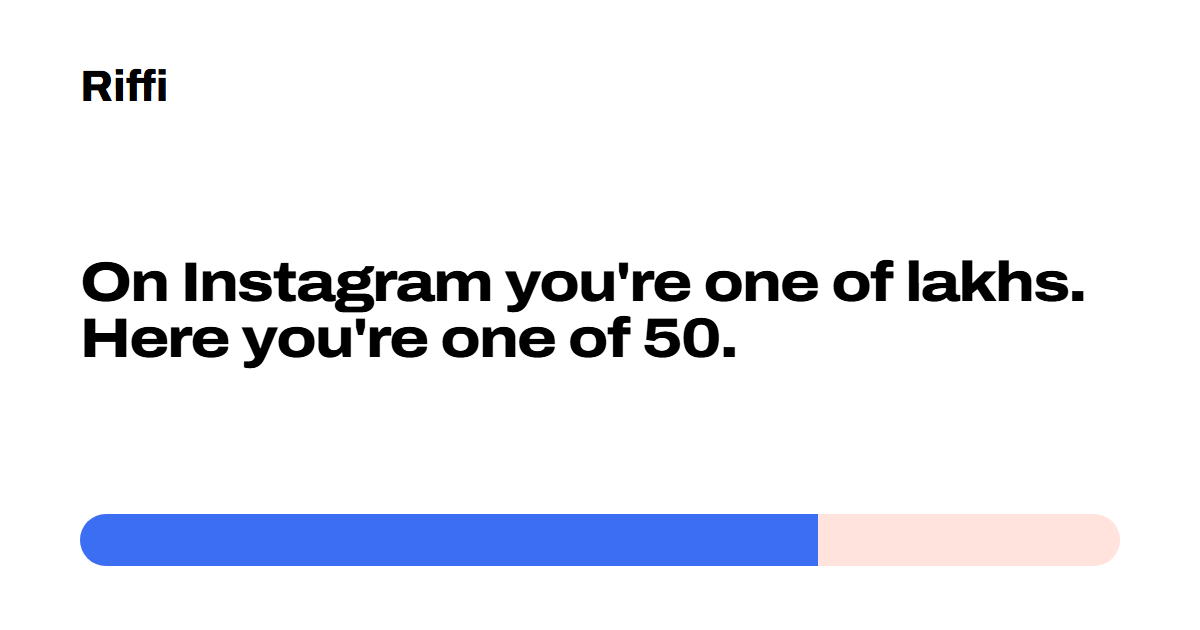
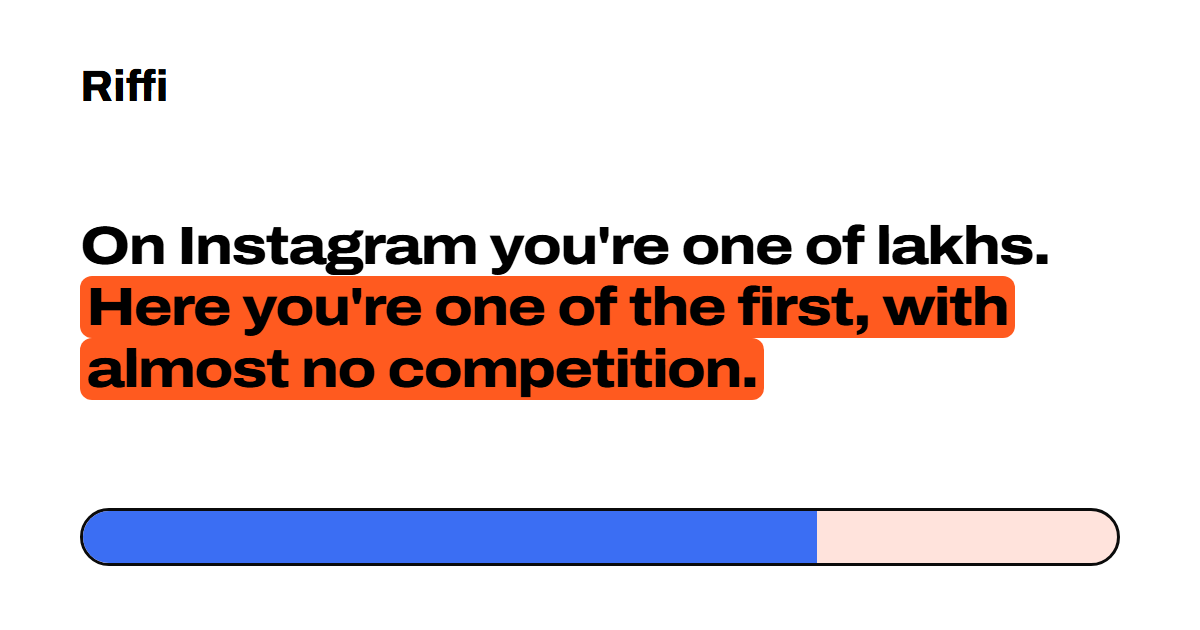
feat: the sticker look - white page, colour in the pieces
Founder's direction on 16 Sep 2026, after seeing a rendered mock: keep the page white and put the colour into the elements. Sections carry drawn panels (lime, or ink for the close), every card and chip has a 3px edge and a hard offset shadow, the button's shadow is the signal blue, the poll bars are outlined, and a faint CSS grid sits behind the page. New brand values live in tokens.css; nothing but a token is referenced elsewhere.

Copy: the hero's second line is now "Here you're one of the first, with almost no competition." (founder's words), carried through the head tag and the DM preview card, where it gets the orange marker sweep.

The headline's stand-in font was re-tuned for the new, longer sentence (size-adjust 126% -> 129%): measured over 3 cold 4G loads per width, the layout jump is 0 at 320, 360, 375 and 390, against a 0.02 budget.

scripts/make-images.mjs now drives Edge over the DevTools protocol: this Edge build ignores --screenshot in headless mode, writing nothing or a picture of its own error page. It also waits for the fonts before capturing.

Tests updated by the independent test author for the new copy and the new card rule; 238 pass.

Changed region(s): [[0.0617, 0.3317, 0.925, 0.6333], [0.0617, 0.7841, 0.925, 0.9048], [0.925, 0.8444, 0.9558, 0.8746]]

diff --git a/src/styles/global.css b/src/styles/global.css
@@ -23,6 +23,10 @@
   --color-hairline: var(--hairline);
   --color-on-ink-body: var(--on-ink-body);
   --color-on-ink-meta: var(--on-ink-meta);
+  --color-lime: var(--lime);
+  --color-flare: var(--flare);
+  --color-edge: var(--edge);
+  --color-grid-line: var(--grid-line);
 
   --default-font-family: var(--typeface-body);
   --font-display: var(--typeface-display);
@@ -30,7 +34,11 @@
 
   --radius-take: var(--corner-take);
   --radius-pill: var(--corner-pill);
+  --radius-panel: var(--corner-panel);
   --shadow-take: var(--lift-take);
+  --shadow-sticker: var(--lift-sticker);
+  --shadow-sticker-sm: var(--lift-sticker-sm);
+  --shadow-cta: var(--lift-cta);
 }
 
 /* Type scale from 360px to 1280px through clamp(), so in-between widths look intentional (PRD 3.3). */
@@ -61,6 +69,11 @@
   body {
     min-height: 100dvh;
     background-color: var(--paper);
+    /* A faint drawing-board grid: two 1px lines, no image file, so it costs the page nothing. */
+    background-image:
+      linear-gradient(var(--grid-line) 1px, transparent 1px),
+      linear-gradient(90deg, var(--grid-line) 1px, transparent 1px);
+    background-size: 44px 44px;
     color: var(--ink);
     font-family: var(--typeface-body);
     font-size: var(--text-body);
@@ -83,8 +96,36 @@
     contain-intrinsic-size: auto 900px;
   }
 
+  /*
+   * The sticker layer (founder's direction, 16 Sep 2026): a drawn edge and a hard offset shadow.
+   * `panel` is a whole section's coloured block, `sticker` a small object (chips), `cta-sticker` the
+   * button, whose shadow is the signal blue rather than ink.
+   */
+  .panel {
+    border: var(--edge-width) solid var(--edge);
+    border-radius: var(--corner-panel);
+    box-shadow: var(--lift-sticker);
+  }
+
+  /* Dividers inside a coloured panel need a darker line than the one that works on white. */
+  .panel:not(.bg-ink) {
+    --hairline: var(--hairline-on-panel);
+  }
+
+  .sticker {
+    border: var(--edge-width) solid var(--edge);
+    box-shadow: var(--lift-sticker-sm);
+  }
+
+  .cta-sticker {
+    border: var(--edge-width) solid var(--edge);
+    box-shadow: var(--lift-cta);
+  }
+
   /* Hover lift belongs only to take cards, and only on pointer devices (PRD 3.5). */
   .take-card {
+    border: var(--edge-width) solid var(--edge);
+    box-shadow: var(--lift-sticker);
     transition: transform 200ms ease-out;
   }
 
@@ -110,6 +151,7 @@
     display: flex;
     height: 44px;
     overflow: hidden;
+    border: var(--edge-width) solid var(--edge);
     border-radius: var(--corner-pill);
     background-color: var(--chip-coral-bg);
   }
@@ -230,6 +272,15 @@
 
   .hero-line {
     animation: hero-rise 520ms cubic-bezier(0.22, 1, 0.36, 1) both;
+  }
+
+  /* The marker sweep behind the second headline line: it hugs the words on every wrapped line. */
+  .hero-mark {
+    box-decoration-break: clone;
+    -webkit-box-decoration-break: clone;
+    padding: 0.04em 0.12em;
+    border-radius: 12px;
+    background-color: var(--flare);
   }
 
   .hero-line + .hero-line {

diff --git a/src/styles/tokens.css b/src/styles/tokens.css
@@ -53,9 +53,9 @@
 @font-face {
   font-family: 'Archivo Fallback Wide';
   src: local('Arial'), local('Roboto');
-  size-adjust: 126%;
-  ascent-override: 69.69%;
-  descent-override: 16.67%;
+  size-adjust: 129%;
+  ascent-override: 68.07%;
+  descent-override: 16.28%;
   line-gap-override: 0%;
 }
 
@@ -91,6 +91,17 @@
   --on-ink-body: #b3b3b3;
   --on-ink-meta: #999999;
 
+  /*
+   * The sticker layer (founder's direction, 16 Sep 2026): the page itself stays white and the colour
+   * lives in the pieces - drawn edges, hard offset shadows, bright panels and chips.
+   */
+  --lime: #d6f84c;
+  --flare: #ff5a1f;
+  --edge: #0b0b0b;
+  --grid-line: #ededed;
+  /* The page's hairline disappears on a coloured panel, so panels use ink at 15% instead. */
+  --hairline-on-panel: #0b0b0b26;
+
   /* Typefaces (PRD 3.3) */
   --typeface-display: 'Archivo Variable', 'Archivo Fallback', sans-serif;
   /* The headline only: same face, with the stand-in matched to its 115% width. */
@@ -100,6 +111,13 @@
   /* Radii differ by object type on purpose (PRD 3.4) */
   --corner-take: 20px;
   --corner-pill: 999px;
+  --corner-panel: 32px;
+
+  /* The drawn edge and the hard shadows that sit under everything on the sticker layer. */
+  --edge-width: 3px;
+  --lift-sticker: 6px 6px 0 var(--edge);
+  --lift-sticker-sm: 4px 4px 0 var(--edge);
+  --lift-cta: 6px 6px 0 var(--signal);
 
   /* The one shadow token, used only on the hero take card (PRD 3.2) */
   --lift-take: 0 24px 48px -20px rgb(0 0 0 / 0.28);

diff --git a/src/components/primitives/Section.tsx b/src/components/primitives/Section.tsx
@@ -1,9 +1,13 @@
 import type { ReactNode } from 'react';
 
+/**
+ * The page stays white; a section's colour arrives as a drawn panel inside it (founder's direction,
+ * 16 Sep 2026). `paper` sections have no panel, so the white page itself carries them.
+ */
 const TONES = {
-  paper: 'bg-paper text-ink',
-  recess: 'bg-recess text-ink',
-  ink: 'bg-ink text-paper',
+  paper: { section: 'text-ink', panel: '' },
+  recess: { section: 'text-ink', panel: 'panel bg-lime p-6 md:p-10 lg:p-12' },
+  ink: { section: 'text-paper', panel: 'panel bg-ink p-6 md:p-10 lg:p-12' },
 } as const;
 
 type SectionProps = {
@@ -20,9 +24,11 @@ export function Section({ id, tone, belowFold = false, children }: SectionProps)
     <section
       id={id}
       aria-labelledby={`${id}-heading`}
-      className={`${TONES[tone]} ${belowFold ? 'below-fold' : ''} py-[72px] lg:py-[112px] xl:py-[128px]`}
+      className={`${TONES[tone].section} ${belowFold ? 'below-fold' : ''} py-[56px] lg:py-[88px] xl:py-[104px]`}
     >
-      <div className="mx-auto w-full max-w-[1120px] px-5 md:px-8 lg:px-10">{children}</div>
+      <div className="mx-auto w-full max-w-[1120px] px-5 md:px-8 lg:px-10">
+        <div className={TONES[tone].panel}>{children}</div>
+      </div>
     </section>
   );
 }

diff --git a/tests/primitives.test.tsx b/tests/primitives.test.tsx
@@ -58,11 +58,16 @@ describe('TakeCard', () => {
     expect(within(card).getByText('Being early beats being good.')).toBeInTheDocument();
   });
 
-  it('uses the one shadow only when featured', () => {
+  it('draws its edge and shadow from take-card on every card, and marks only the featured one with the desktop tilt', () => {
     const { rerender } = render(<TakeCard chip="sample take" text="A take." />);
-    expect(screen.getByRole('article').className).not.toContain('shadow-take');
+    const plainClasses = screen.getByRole('article').className;
+    expect(plainClasses).toContain('take-card');
+    expect(plainClasses).not.toContain('lg:-rotate-2');
+
     rerender(<TakeCard chip="sample take" text="A take." featured />);
-    expect(screen.getByRole('article').className).toContain('shadow-take');
+    const featuredClasses = screen.getByRole('article').className;
+    expect(featuredClasses).toContain('take-card');
+    expect(featuredClasses).toContain('lg:-rotate-2');
   });
 });
 

diff --git a/tests/head.test.ts b/tests/head.test.ts
@@ -44,7 +44,10 @@ describe('index.html: title, description and the link-preview card, exactly as P
 
   it.each([
     ['meta[name="description"]', "Riffi is India's platform for opinions. We're taking 50 creators in before launch."],
-    ['meta[property="og:title"]', "On Instagram you're one of lakhs. Here you're one of 50."],
+    [
+      'meta[property="og:title"]',
+      "On Instagram you're one of lakhs. Here you're one of the first, with almost no competition.",
+    ],
     ['meta[property="og:description"]', 'The Riffi Creator Program. 50 seats, batch one.'],
     ['meta[property="og:type"]', 'website'],
     ['meta[property="og:image"]', '__SITE_URL__/og.png'],

diff --git a/index.html b/index.html
@@ -8,7 +8,10 @@
       name="description"
       content="Riffi is India's platform for opinions. We're taking 50 creators in before launch."
     />
-    <meta property="og:title" content="On Instagram you're one of lakhs. Here you're one of 50." />
+    <meta
+      property="og:title"
+      content="On Instagram you're one of lakhs. Here you're one of the first, with almost no competition."
+    />
     <meta property="og:description" content="The Riffi Creator Program. 50 seats, batch one." />
     <meta property="og:image" content="__SITE_URL__/og.png" />
     <meta property="og:type" content="website" />

diff --git a/src/components/primitives/TakeCard.tsx b/src/components/primitives/TakeCard.tsx
@@ -13,9 +13,9 @@ type TakeCardProps = {
 export function TakeCard({ chip, text, featured = false, children }: TakeCardProps) {
   return (
     <article
-      className={`take-card rounded-take border border-hairline bg-paper p-5 md:p-6 ${featured ? 'shadow-take lg:-rotate-2' : ''}`}
+      className={`take-card rounded-take bg-paper p-5 md:p-6 ${featured ? 'lg:-rotate-2' : ''}`}
     >
-      <Chip tone="neutral">{chip}</Chip>
+      <Chip tone="butter">{chip}</Chip>
       <p className="mt-4 font-display text-display-m font-bold text-ink">{text}</p>
       {children}
     </article>

diff --git a/tests/content.test.ts b/tests/content.test.ts
@@ -145,7 +145,10 @@ describe('copy matches the PRD word for word', () => {
   });
 
   it('hero: the two title lines and the subline', () => {
-    expect(content.hero.titleLines).toEqual(["On Instagram you're one of lakhs.", "Here you're one of 50."]);
+    expect(content.hero.titleLines).toEqual([
+      "On Instagram you're one of lakhs.",
+      "Here you're one of the first, with almost no competition.",
+    ]);
     expect(content.hero.subline).toBe(
       "Riffi is India's platform for opinions. We're taking 50 creators in before launch and pointing the feed at them.",
     );

diff --git a/src/components/blocks/Hero.tsx b/src/components/blocks/Hero.tsx
@@ -23,7 +23,9 @@ export function Hero() {
         <div className="lg:col-span-7">
           <h1 id="hero-heading" className="hero-title text-display-xl font-extrabold">
             <span className="hero-line block">{titleLines[0]}</span>{' '}
-            <span className="hero-line block">{titleLines[1]}</span>
+            <span className="hero-line block">
+              <span className="hero-mark">{titleLines[1]}</span>
+            </span>
           </h1>
           <p className="mt-6 max-w-[34rem] text-body-l text-ink-soft">{subline}</p>
           <div className="mt-8">

diff --git a/src/components/primitives/CtaButton.tsx b/src/components/primitives/CtaButton.tsx
@@ -17,7 +17,7 @@ export function CtaButton({ variant }: CtaButtonProps) {
         href={ctaHref}
         target="_blank"
         rel="noopener noreferrer"
-        className={`${styles.button} inline-flex min-h-11 items-center justify-center rounded-pill px-8 py-3 text-body-l font-semibold`}
+        className={`${styles.button} cta-sticker inline-flex min-h-11 items-center justify-center rounded-pill px-8 py-3 text-body-l font-bold`}
       >
         {content.cta.label}
       </a>

diff --git a/src/content.ts b/src/content.ts
@@ -66,7 +66,10 @@ export const content = {
     whatsappLabel: 'Or message us on WhatsApp',
   },
   hero: {
-    titleLines: ["On Instagram you're one of lakhs.", "Here you're one of 50."],
+    titleLines: [
+      "On Instagram you're one of lakhs.",
+      "Here you're one of the first, with almost no competition.",
+    ],
     subline:
       "Riffi is India's platform for opinions. We're taking 50 creators in before launch and pointing the feed at them.",
     sampleTake: {

diff --git a/src/components/primitives/Chip.tsx b/src/components/primitives/Chip.tsx
@@ -16,7 +16,7 @@ export function Chip({ tone, children }: ChipProps) {
   return (
     <span
       data-tone={tone}
-      className={`${TONES[tone]} inline-flex items-center rounded-pill px-3 py-1 text-meta font-medium`}
+      className={`${TONES[tone]} sticker inline-flex items-center rounded-pill px-3 py-1 text-meta font-semibold`}
     >
       {children}
     </span>
